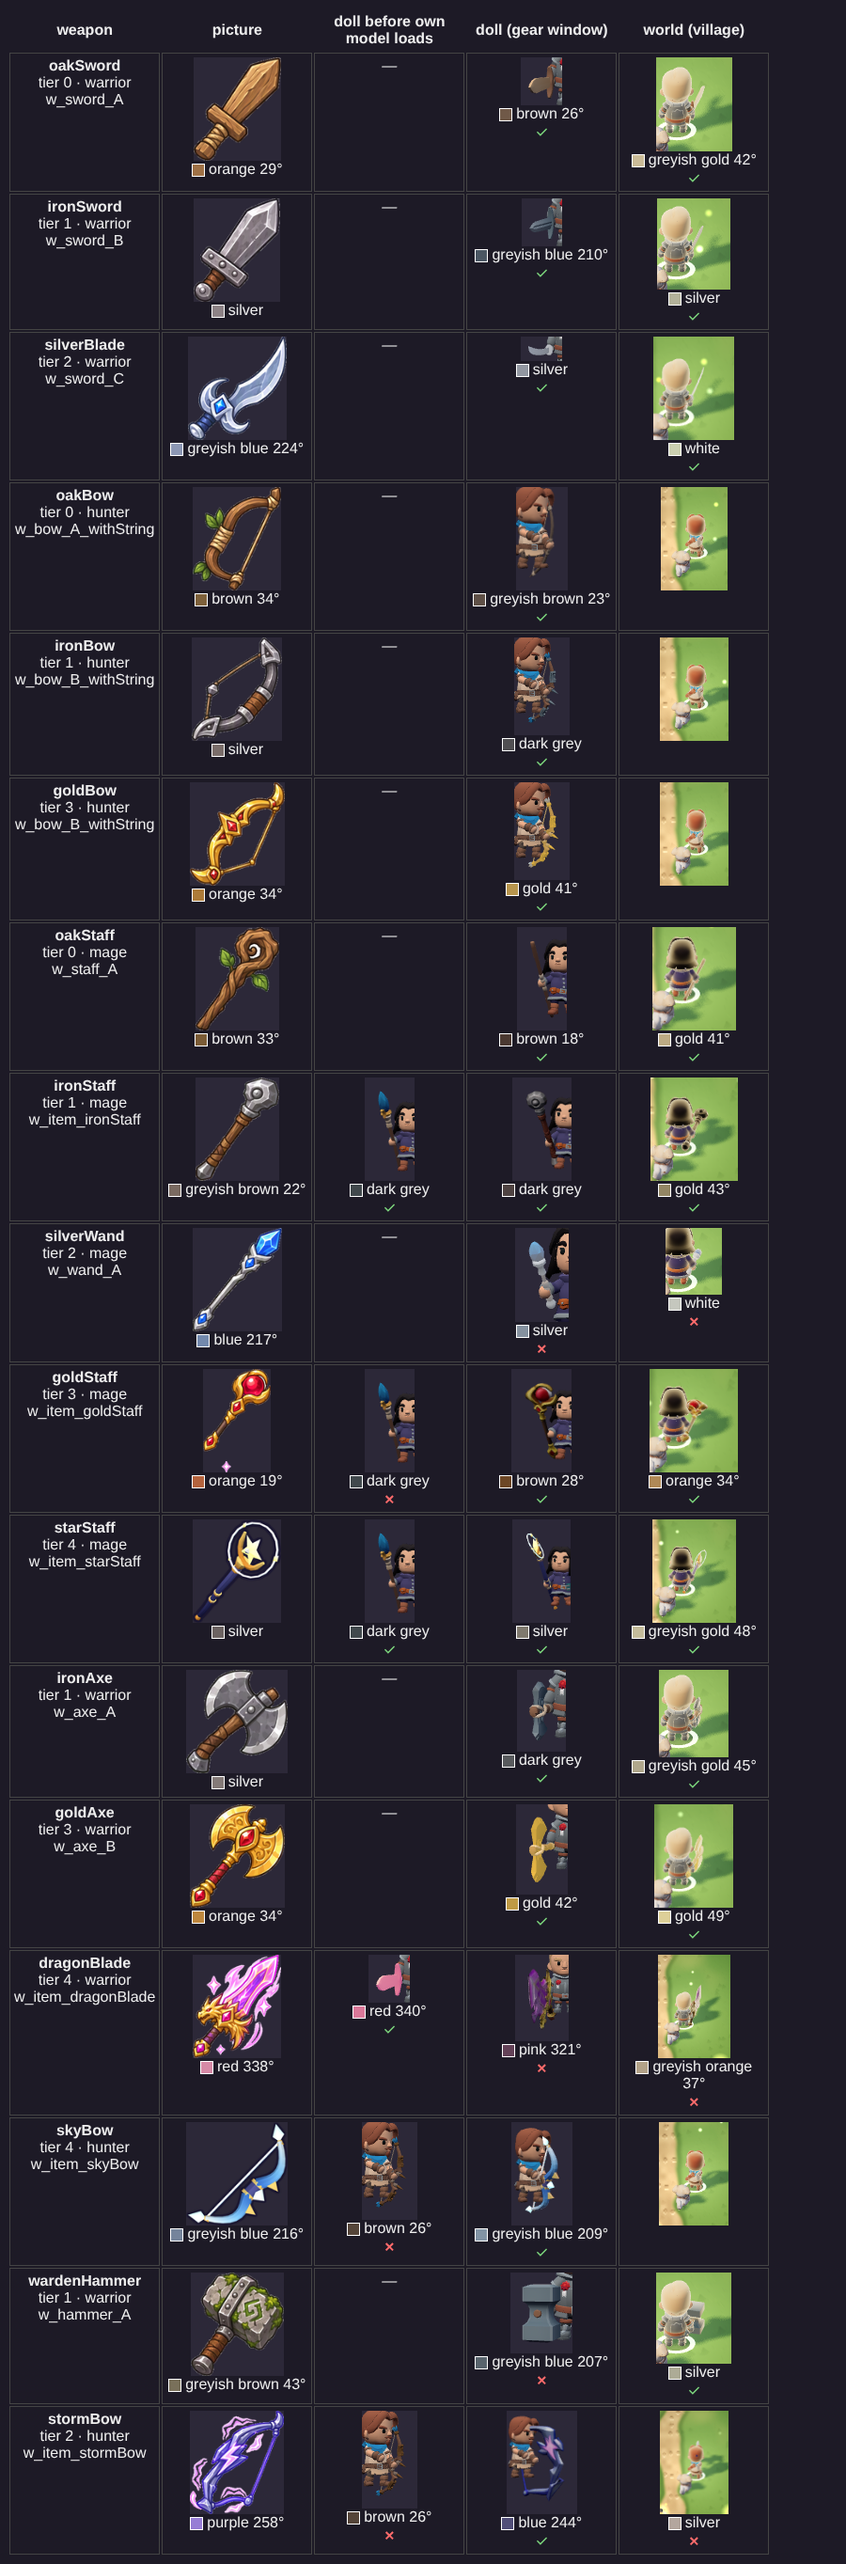
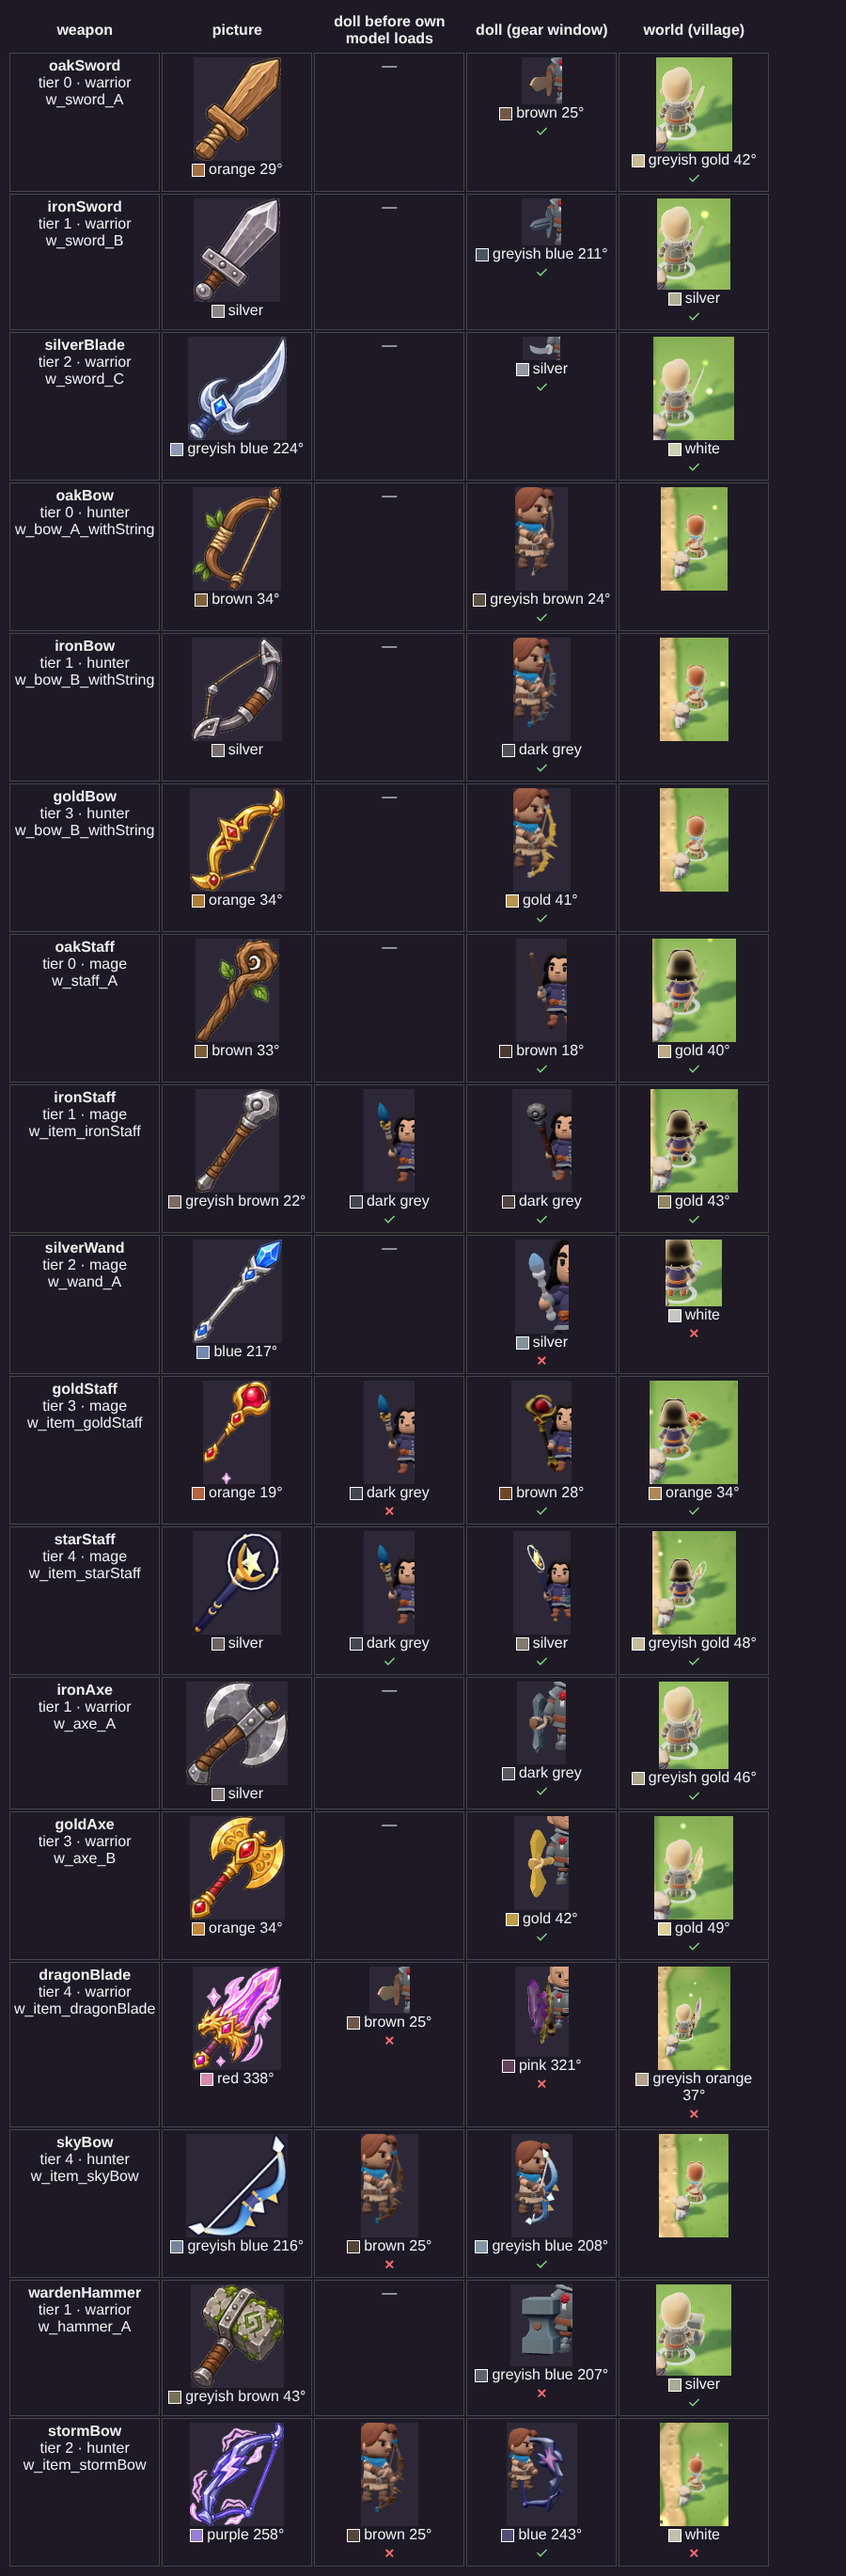
Doll: fit the camera to the idle pose only (bigger hero), minimum 0.45
Claude-Session: https://claude.ai/code/session_01ABMDoMRy6VhTvLeJmcP4yx

diff --git a/js/doll3d.js b/js/doll3d.js
@@ -14,10 +14,10 @@ const DOLL3D={
   yawBy:{bow:0.9,magic:-0.25},
   swayBy:{magic:0.2},        // המטה מורם ליד הראש: נדנוד קטן, כדי שהוא לא יעבור מול הפנים
   /* מסגרת (באג 9.11.2026, docs/weapon-audit-2026-11-09.md: 10 מ-17 נשקים נחתכו בקצה). המצלמה מתאימה את עצמה לקופסה של הדמות
-     ושל הנשק יחד, בכל הנדנוד ובתנוחות העמידה וההרעה (dollFit). minH: הדמות תופסת לפחות חלק כזה מגובה הקנבס, גם כשהנשק ארוך (להב הדרקון, הארוך מכולם, צריך 0.42. השאר נכנסים ב-0.58 ומעלה).
+     ושל הנשק יחד, בכל הנדנוד ובתנוחת העמידה (dollFit). minH: הדמות תופסת לפחות חלק כזה מגובה הקנבס, גם כשהנשק ארוך (קשת הסערה ומטה הכוכב צריכים 0.45, חרבות וגרזנים 0.56 עד 0.75: הקנבס צר, 136 על 215, בין טורי המשבצות).
      pad: שוליים סביב הכל (חלק מהקנבס). badge: הפינה התחתונה בצד הסוף, שם תג המחלקה (.gfig b): הנשק לא נכנס אליה.
      poses: כמה רגעים בכל אנימציה נבדקים, swing: כמה נקודות בנדנוד */
-  minH:0.42,pad:0.03,badge:{w:0.3,h:0.16},poses:4,swing:5,
+  minH:0.45,pad:0.03,badge:{w:0.3,h:0.16},poses:4,swing:5,
   glow:0.22,                 // כמה חזק הזוהר של סט או פריט זוהר
   /* חפצים מסתובבים: רדיוס (חלק מגובה הדמות), גודל, מהירות, וגובה. נמוך וקטן, סביב הרגליים: בגובה החזה כדור כתום גדול
      עבר מול הפנים (ניר, 5.11.2026: "הדמות בחפצים נראית מזעזע") */
@@ -77,7 +77,8 @@ function dollBox(root){
 // דוגמים את הדמות בכל הנדנוד, בעמידה ובהרעה, ושומרים את הפינות. dollCam מעמיד לפיהן את המצלמה
 function dollFit(D){
   const a=D.a,P=DOLL3D,pts=[];a.mixer.stopAllAction();a.base=null;a.one=null;
-  for(const n of [D.idle,P.cheer]){const x=act(a,n);if(!x)continue;const d=x.getClip().duration;x.reset().setEffectiveWeight(1).play();
+  for(const n of [D.idle]){   // רק העמידה: ההרעה (1.4 שניות אחרי שלובשים) הרימה את הנשק והקטינה את הדמות לכל הזמן (להב הדרקון 0.42 במקום 0.56)
+    const x=act(a,n);if(!x)continue;const d=x.getClip().duration;x.reset().setEffectiveWeight(1).play();
     for(let k=0;k<P.poses;k++){x.time=d*k/P.poses;a.mixer.update(0);
       for(let j=0;j<P.swing;j++){a.root.rotation.y=D.yaw+D.sway*(j/(P.swing-1)*2-1);const b=dollBox(a.root);if(b.isEmpty())continue;
         for(const X of [b.min.x,b.max.x])for(const Y of [b.min.y,b.max.y])for(const Z of [b.min.z,b.max.z])pts.push(new THREE.Vector3(X,Y,Z))}}
